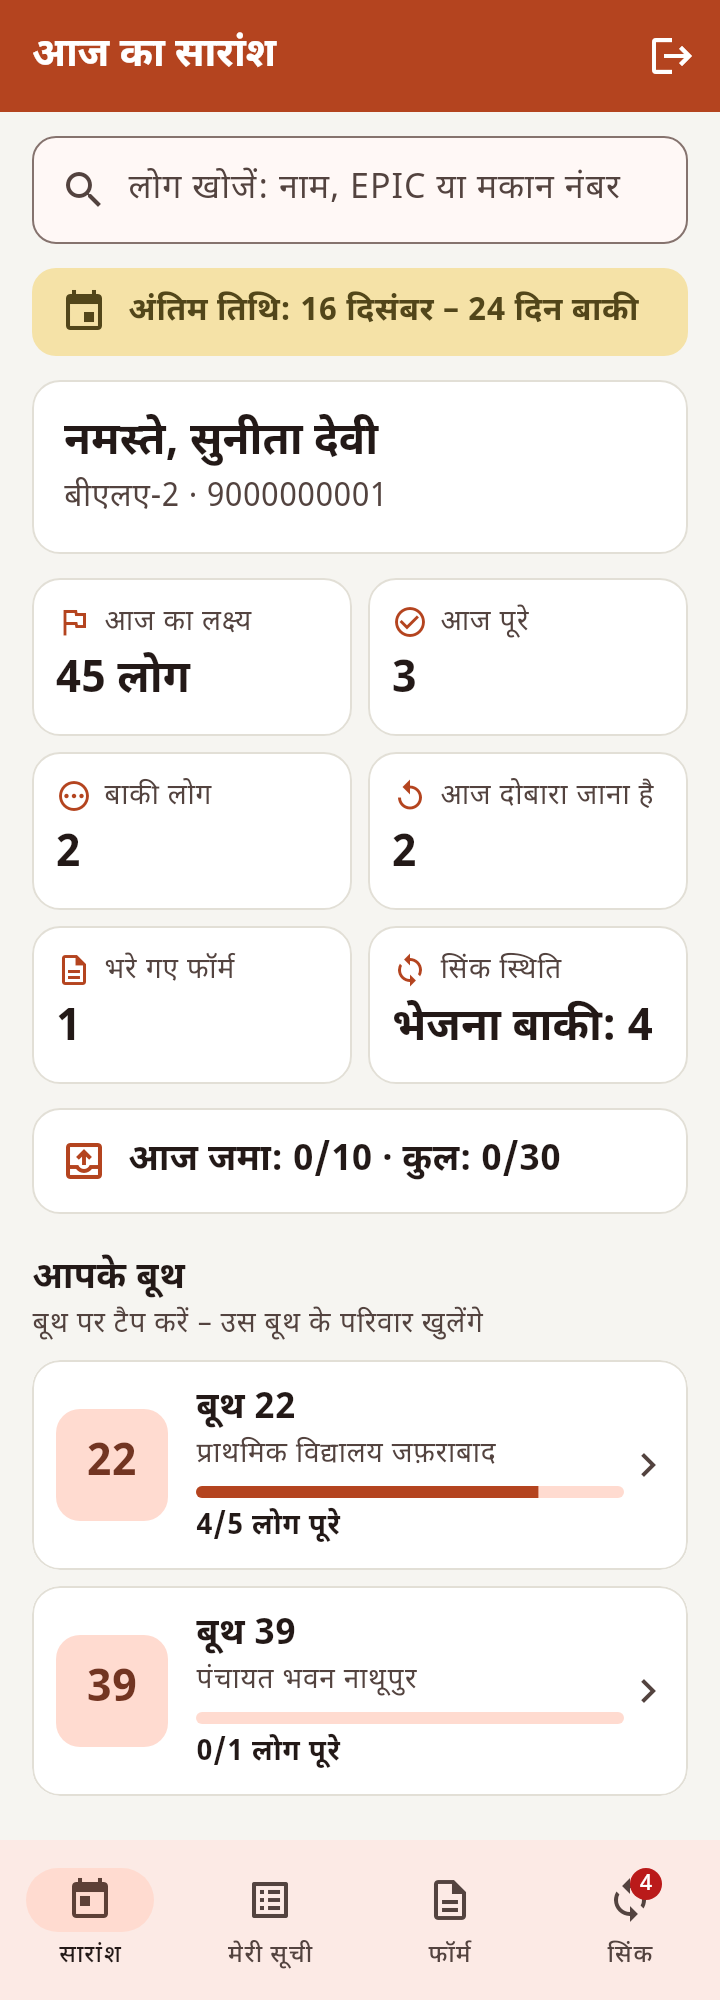
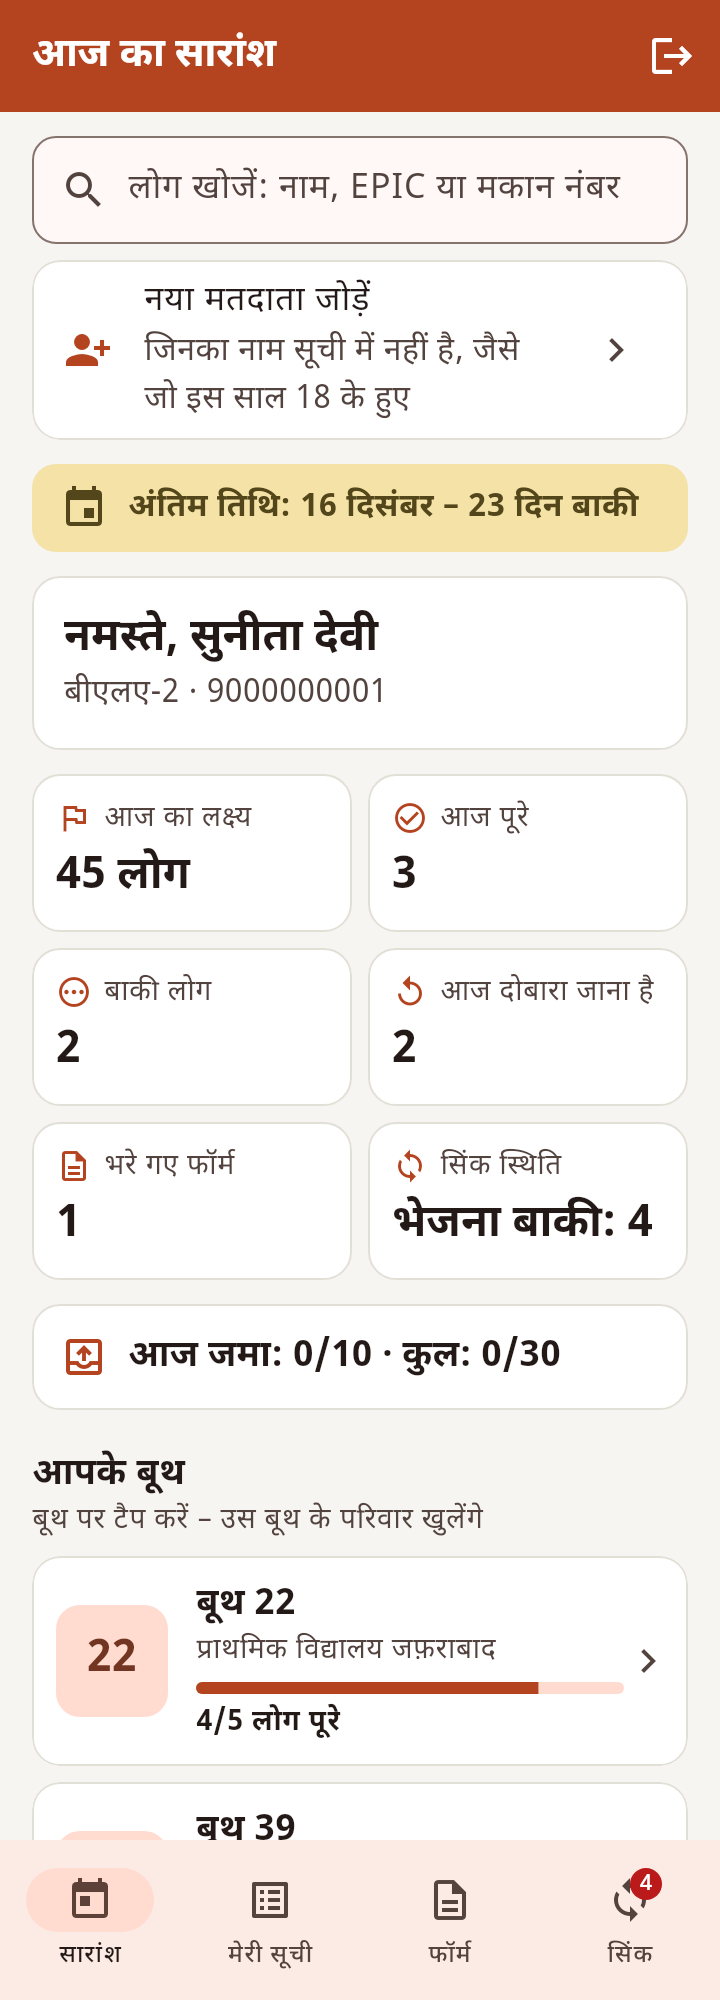
Screen previews: new voter at a new house, form photo card
Claude-Session: https://claude.ai/code/session_018SnJQWVpndYXc39DbVGTA1

Changed region(s): [[0.0306, 0.124, 0.9778, 0.93], [0.9472, 0.682, 0.9778, 0.713]]

diff --git a/app/test_live/screens_preview_test.dart b/app/test_live/screens_preview_test.dart
@@ -225,6 +225,15 @@ void main() {
     ),
   );
   testWidgets(
+    'new voter, new house',
+    (tester) => shoot(
+      tester,
+      'new_voter_house',
+      const NewVoterScreen(partNo: 22),
+      height: 2200,
+    ),
+  );
+  testWidgets(
     'location permission',
     (tester) => shoot(
       tester,
